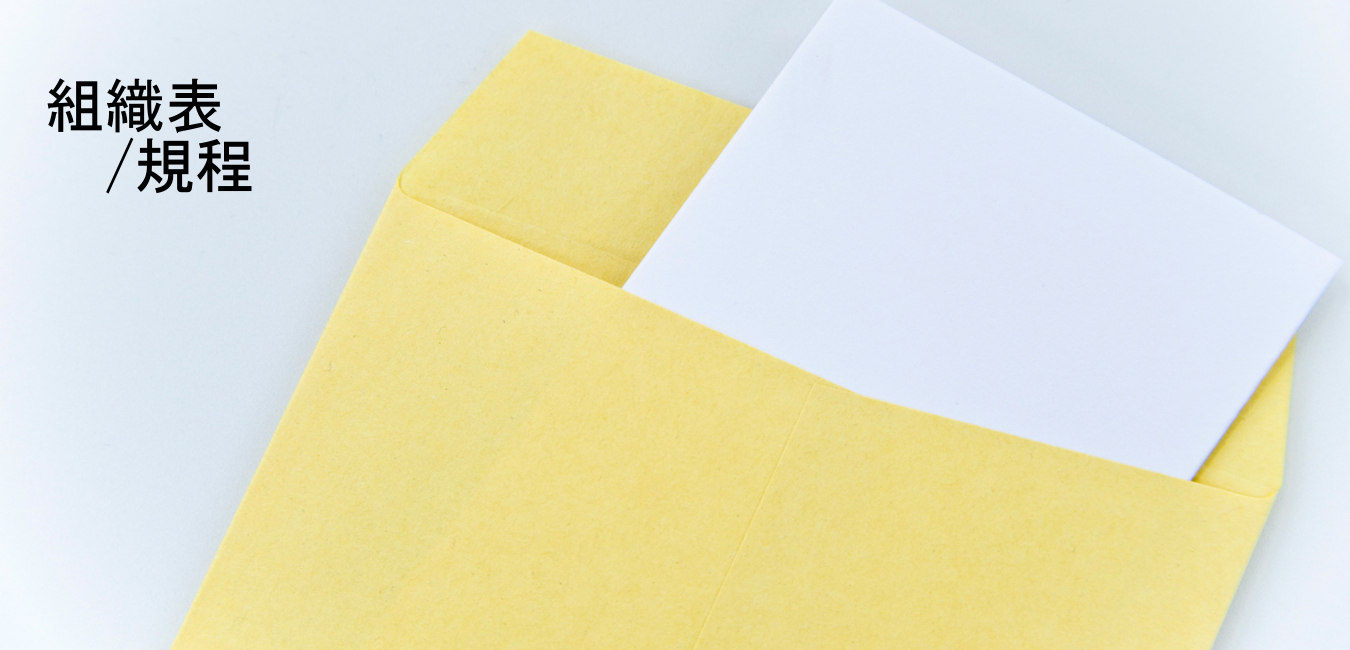
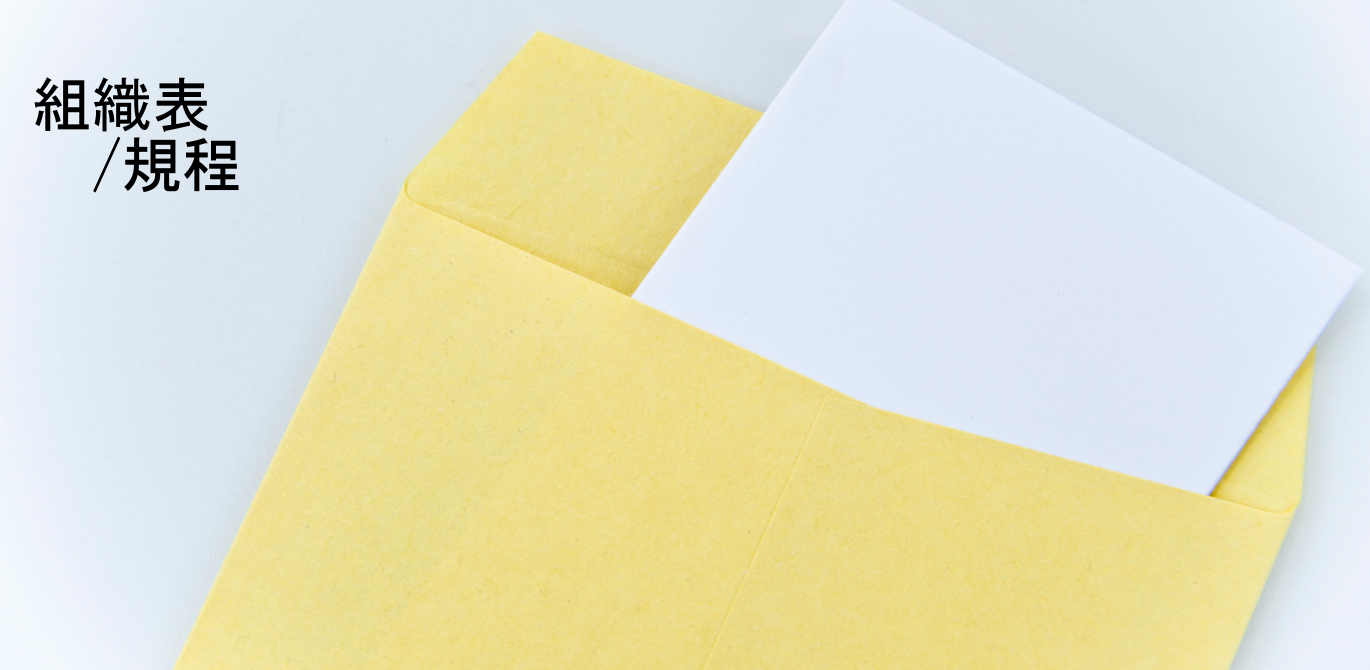
連絡・申請・規程・Mailページの背景調整

Changed region(s): [[0.0, 0.0923, 0.1867, 0.3077]]

diff --git a/staff_room/WebContent/css/mail.css b/staff_room/WebContent/css/mail.css
@@ -5,8 +5,7 @@ body {
 	width: 100%;
 	height: 100%;
 	background-attachment: fixed;
-	background-image: url("/staff_room/images/mail5.jpg");
-	background-size: 100% 100%;
+	background-image: url("/staff_room/images/mail1.jpg");
 }
 
 div#con {
@@ -14,7 +13,7 @@ div#con {
 	max-height: 100%;
 	margin-left: auto;
 	margin-top: auto;
-	
+
 }
 
 .uk-table {

diff --git a/staff_room/WebContent/css/document.css b/staff_room/WebContent/css/document.css
@@ -2,8 +2,6 @@ body {
 	width: 100%;
 	height: 556px;
 	background-attachment: fixed;
-
-	background-size: 100% 100%;
 }
 
 body.manual{
